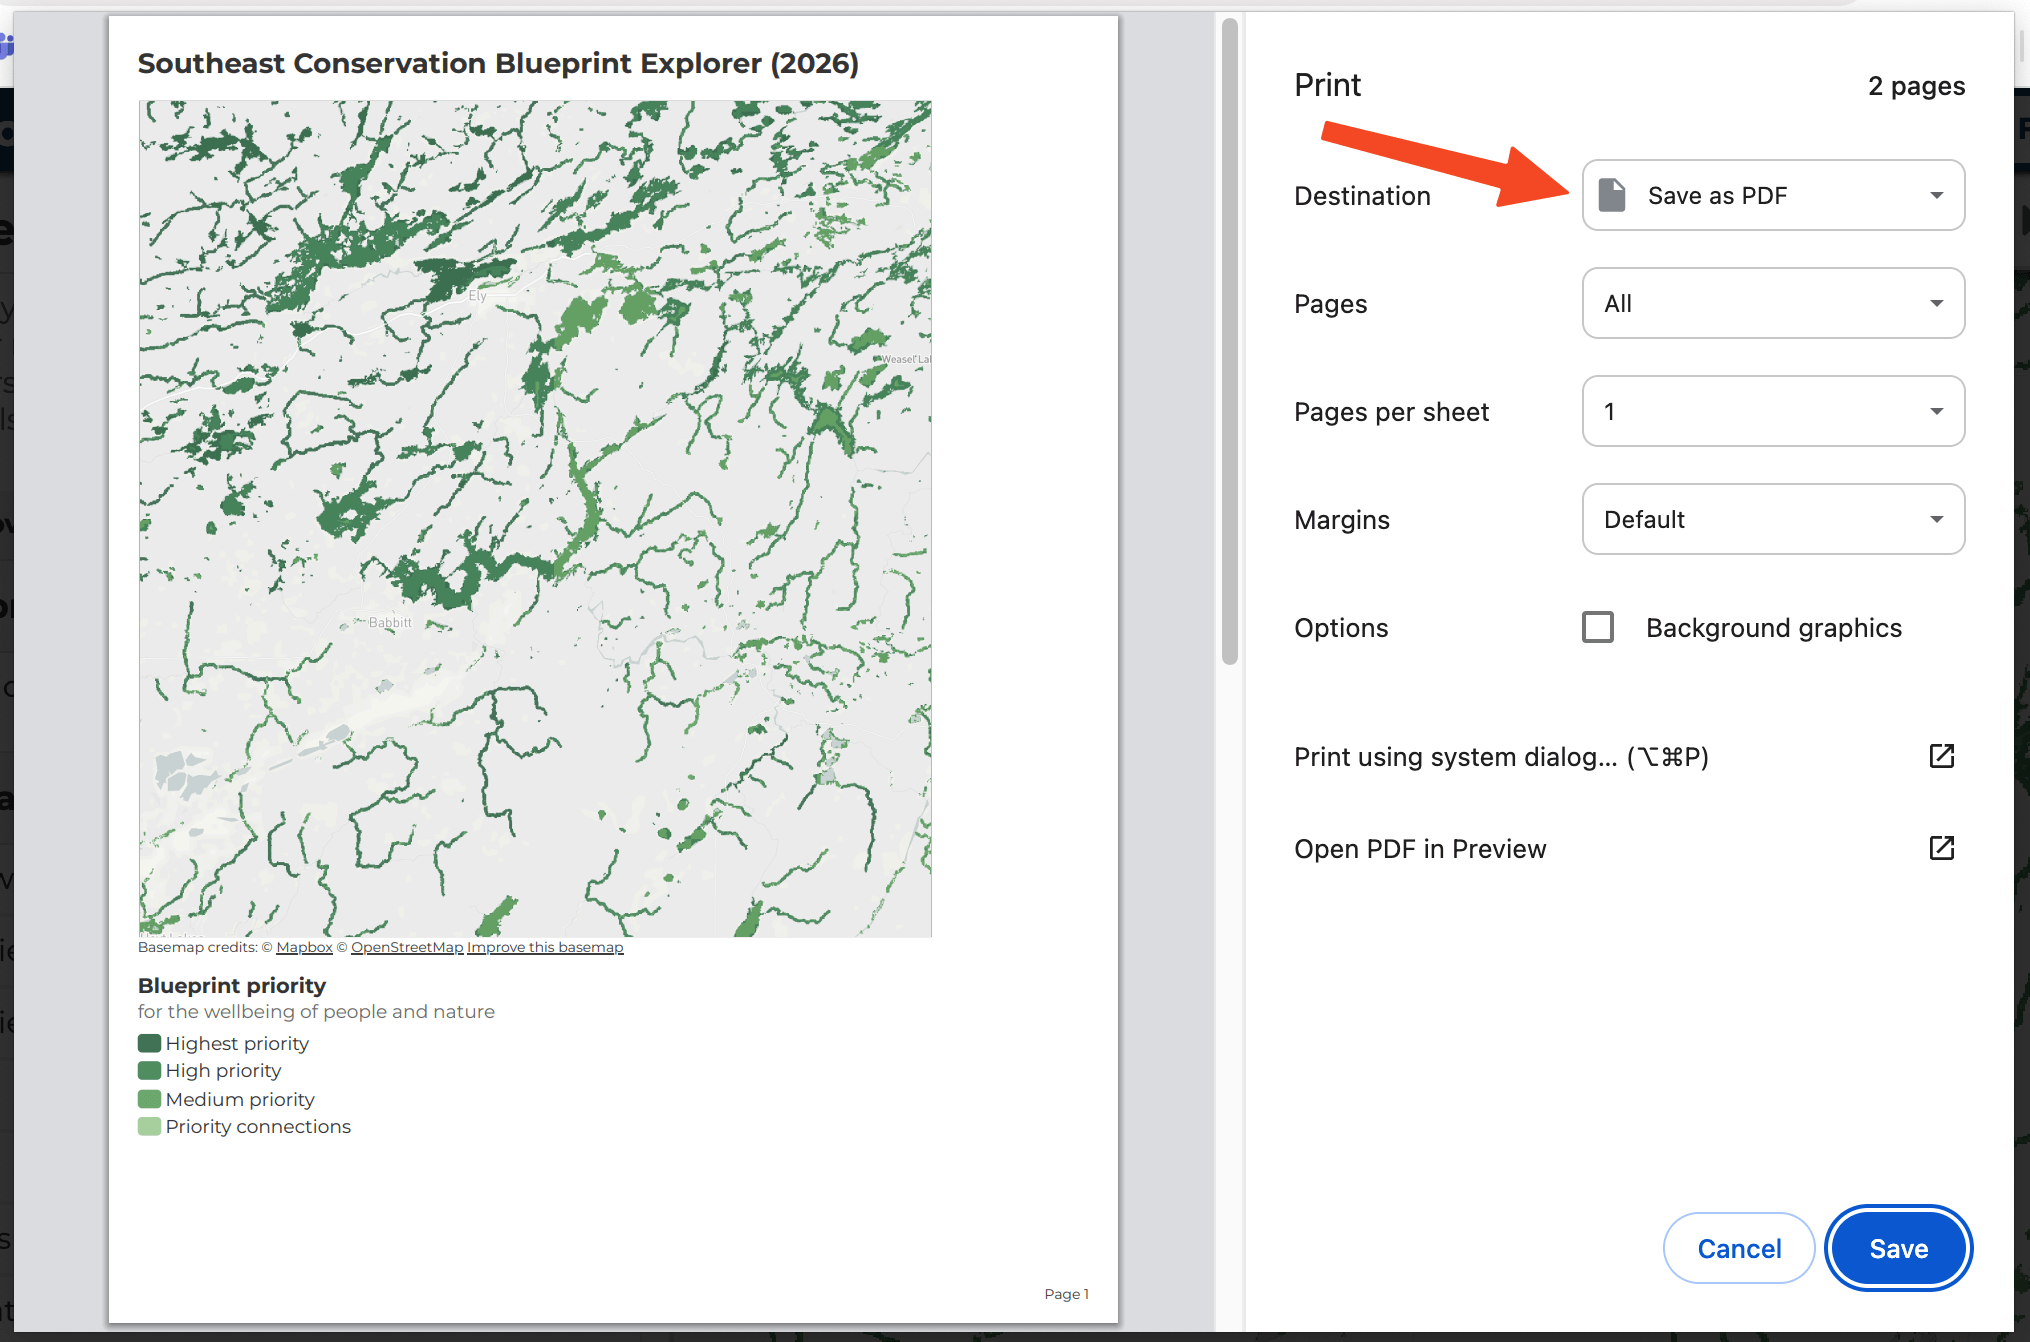
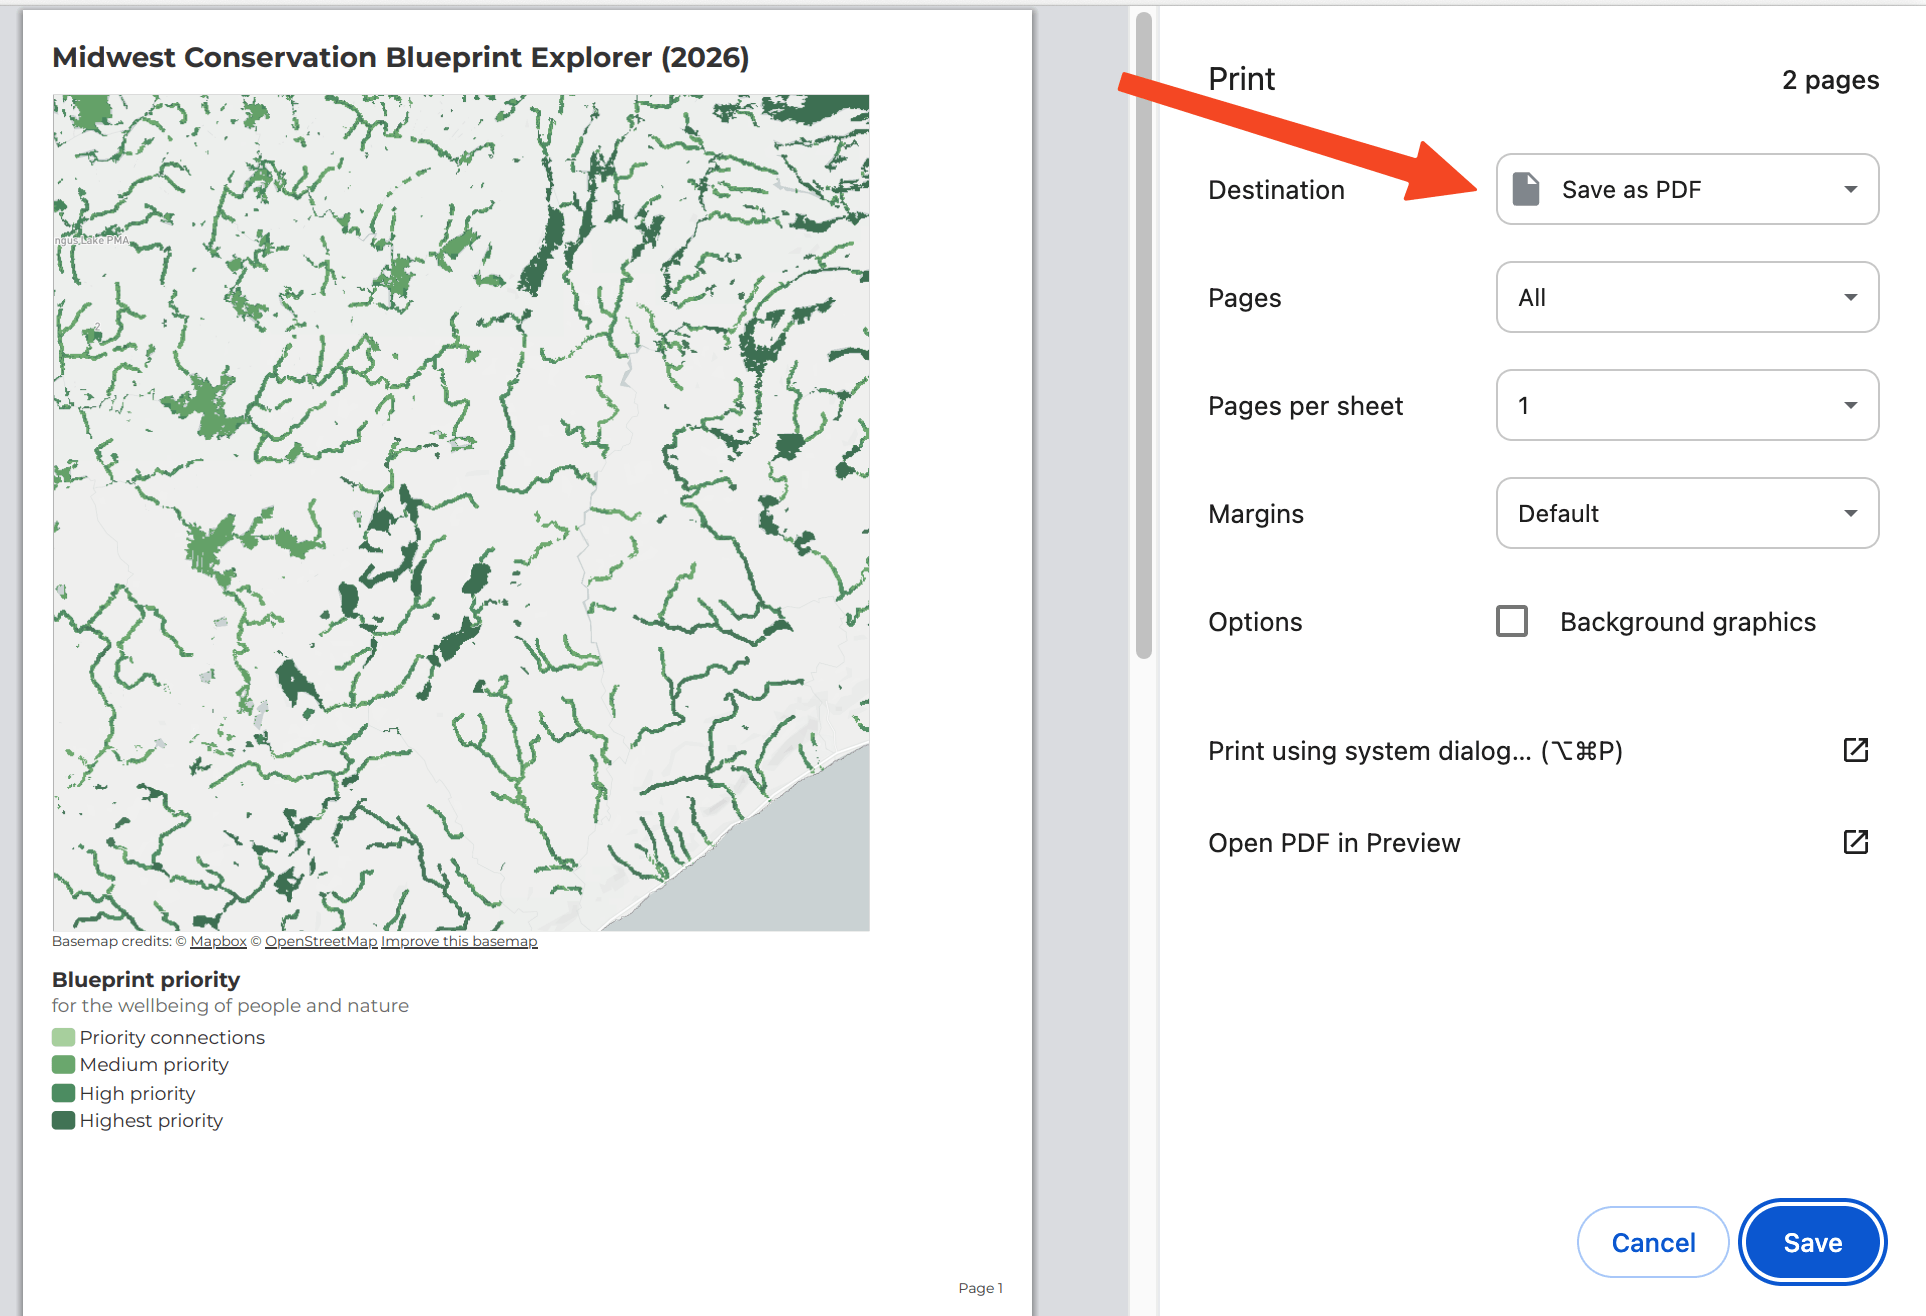
Fixes from Rachael

diff --git a/ui/src/lib/components/report/SummaryReportModal.svelte b/ui/src/lib/components/report/SummaryReportModal.svelte
@@ -1,7 +1,7 @@
 <script lang="ts">
 	import DownloadIcon from '~icons/fa-solid/download'
 	import { createSummaryUnitReport } from '$lib/api'
-	import { API_HOST } from '$lib/env'
+	import { API_HOST, CONTACT_URL } from '$lib/env'
 	import { Root, Trigger, Close, Content, Footer, Header, Title } from '$lib/components/ui/dialog'
 	import { Button } from '$lib/components/ui/button'
 	import { captureException, logGAEvent } from '$lib/util/log'
@@ -147,7 +147,7 @@
 				Note: we have made every possible effort to ensure that the information provided in this
 				viewer is accessible to people with disabilities. If you cannot fully access the
 				information, please reach out to
-				<a href="http://secassoutheast.org/staff" target="_blank"> Blueprint user support staff </a>
+				<a href={CONTACT_URL} target="_blank"> Midwest Landscape Initiative staff</a>
 				so that we can provide the information in an alternate format.
 			</p>
 		{/if}

diff --git a/ui/src/lib/components/report/UploadForm.svelte b/ui/src/lib/components/report/UploadForm.svelte
@@ -246,9 +246,8 @@
 						We're currently testing advanced reporting that complements this simple PDF report, including
 						the ability to choose specific datasets and save results to an XLSX file. This functionality
 						is not yet public. Contact
-						<a href="http://secassoutheast.org/staff" target="_blank">
-							Midwest Landscape Initiative staff</a
-						> to find out more.
+						<a href={CONTACT_URL} target="_blank"> Midwest Landscape Initiative staff</a> to find out
+						more.
 					{:else}
 						Upload a zipped shapefile or ESRI File Geodatabase Feature Class containing your area of
 						interest to generate a detailed Excel spreadsheet report (.xlsx) of the Blueprint,

diff --git a/ui/src/lib/components/tabs/FiltersTab.svelte b/ui/src/lib/components/tabs/FiltersTab.svelte
@@ -111,7 +111,7 @@
 			<div class="flex flex-col overflow-y-auto flex-auto h-full relative">
 				<div class="px-4 py-2 leading-tight text-grey-8">
 					Filters can help you find the part of the blueprint that aligns with your mission,
-					interest, or specific question. Enable the filters below to narrow down the Blueprint to
+					interest, or specific question. Enable the filters below to narrow down the blueprint to
 					the part that falls within a range of values for one or more layers.
 				</div>
 

diff --git a/analysis/lib/xlsx/basic.py b/analysis/lib/xlsx/basic.py
@@ -1,13 +1,6 @@
 import pandas as pd
 
-from analysis.constants import INDICATORS_INDEX
-from analysis.lib.xlsx.style import (
-    CHAR_PER_WIDTH_UNIT,
-    add_caption,
-    add_good_condition_row,
-    set_cell_styles,
-    set_column_widths,
-)
+from analysis.lib.xlsx.style import CHAR_PER_WIDTH_UNIT, add_caption, set_cell_styles, set_column_widths
 
 
 def get_value_columns(values):
@@ -49,14 +42,6 @@ def add_basic_results_sheet(
     values = dataset["values"]
     caption = dataset["caption"] + "."
 
-    # good threshold is only applicable to indicators
-    if dataset["id"] in INDICATORS_INDEX:
-        good_threshold = dataset.get("goodThreshold", None)
-        if good_threshold:
-            caption += "  Good condition thresholds reflect the range of indicator values that occur in healthy, functioning ecosystems."
-        else:
-            caption += "  A good condition threshold is not yet defined for this indicator."
-
     value_label = dataset.get("valueLabel", None)
     if value_label:
         caption += f"  Values show {value_label[0].lower()}{value_label[1:]}."
@@ -95,9 +80,3 @@ def add_basic_results_sheet(
     set_cell_styles(ws, area_columns=range(1, len(tmp.columns) + 3))
 
     add_caption(ws, table_counter, caption)
-
-    if dataset["id"] in INDICATORS_INDEX and good_threshold:
-        # NOTE: this only applies to indicators, which are always in greatest to least order
-        offset = 3 if has_area_outside else 2
-        pos = [v["value"] for v in values[::-1]].index(good_threshold) + 1
-        add_good_condition_row(ws, offset, offset + len(values), break_col=pos)

diff --git a/api/tasks/custom_report_xlsx.py b/api/tasks/custom_report_xlsx.py
@@ -42,7 +42,7 @@ async def get_xlsx_report_inputs(ctx, zip_filename, dataset, layer, uuid):
 
     if len(datasets) == 0:
         raise DataError(
-            "area of interest does not overlap Southeast Blueprint or area of interest did not overlap with the center of at least one 30m pixel in the Southeast Blueprint"
+            "area of interest does not overlap Midwest Blueprint or area of interest did not overlap with the center of at least one 30m pixel in the Midwest Blueprint"
         )
 
     await set_progress(ctx["redis"], ctx["job_id"], 100, "Done checking available datasets")
@@ -128,7 +128,7 @@ async def create_custom_xlsx_report(
 
     results = await get_analysis_unit_results(df, datasets, progress_callback=progress_callback)
     if results is None:
-        raise DataError("Dataset does not overlap Southeast states")
+        raise DataError("Dataset does not overlap Midwest states")
 
     await set_progress(ctx["redis"], ctx["job_id"], 75, "Creating XLSX file")
     xlsx = create_report(results, datasets, name)
@@ -145,7 +145,7 @@ async def create_custom_xlsx_report(
     await set_progress(ctx["redis"], ctx["job_id"], 100, "All done!")
 
     download_filename = (
-        f"Southeast Blueprint Summary Report - {name}.xlsx" if name else "Southeast Blueprint Summary Report.xlsx"
+        f"Midwest Blueprint Summary Report - {name}.xlsx" if name else "Midwest Blueprint Summary Report.xlsx"
     )
 
     return {

diff --git a/analysis/lib/xlsx/metadata.py b/analysis/lib/xlsx/metadata.py
@@ -48,7 +48,6 @@ def add_data_details_sheet(xlsx: pd.ExcelWriter, datasets: set[str], table_count
     metadata.loc[ix, "date"] = BLUEPRINT["date"]
     metadata.loc[ix, "source"] = BLUEPRINT["source"]
     metadata.loc[ix, "citation"] = BLUEPRINT["citation"]
-    metadata.loc[ix, "url"] = BLUEPRINT["url"]
 
     metadata = metadata[["category", "label", "sheet_name", "source", "date", "description", "citation", "url"]].rename(
         columns={
@@ -64,14 +63,16 @@ def add_data_details_sheet(xlsx: pd.ExcelWriter, datasets: set[str], table_count
     )
 
     metadata.to_excel(xlsx, sheet_name="Data descriptions", index=False)
+
     ws = xlsx.sheets["Data descriptions"]
     set_column_widths(ws, [18, 24, 18, 24, 8, 64, 48, 40])
     set_cell_styles(ws)
-    for cell in list(ws.columns)[-1][1:]:
-        cell.hyperlink = cell.value
-        cell.font = Font(color=Color(index=4))
 
     add_caption(ws, table_counter, "Details for datasets included in this analysis.")
+
+    for cell in list(ws.columns)[-1][3:]:
+        cell.hyperlink = str(cell.value)
+        cell.font = Font(color=Color(index=4))
 
 
 def add_metadata_sheet(xlsx: pd.ExcelWriter, table_counter: int, name: str | None = None):

diff --git a/api/tasks/custom_report_pdf.py b/api/tasks/custom_report_pdf.py
@@ -72,7 +72,7 @@ async def create_custom_pdf_report(ctx, zip_filename, dataset, layer, name=""):
 
     if results is None:
         raise DataError(
-            "area of interest does not overlap Southeast Blueprint or area of interest did not overlap with the center of at least one 30m pixel in the Southeast Blueprint"
+            "area of interest does not overlap Midwest Blueprint or area of interest did not overlap with the center of at least one 30m pixel in the Midwest Blueprint"
         )
 
     # compile indicator IDs across all indicator groups
@@ -127,7 +127,7 @@ async def create_custom_pdf_report(ctx, zip_filename, dataset, layer, name=""):
     log.debug(f"Created PDF at: {local_filename}")
 
     download_filename = (
-        f"Southeast Blueprint Summary Report - {name}.pdf" if name else "Southeast Blueprint Summary Report.pdf"
+        f"Midwest Blueprint Summary Report - {name}.pdf" if name else "Midwest Blueprint Summary Report.pdf"
     )
 
     return {

diff --git a/api/tasks/summary_unit_report_pdf.py b/api/tasks/summary_unit_report_pdf.py
@@ -10,8 +10,7 @@ from api.settings import TEMP_DIR
 
 
 async def create_summary_unit_pdf_report(ctx, unit_type, unit_id):
-    """Generate Southeast Blueprint Report for a HUC12
-    or marine hex grid cell
+    """Generate Midwest Blueprint Report for a HUC12
 
     Parameters
     ----------
@@ -78,7 +77,7 @@ async def create_summary_unit_pdf_report(ctx, unit_type, unit_id):
 
     log.debug(f"Created PDF at: {local_filename}")
 
-    download_filename = f"Southeast Blueprint Summary Report - {name}.pdf"
+    download_filename = f"Midwest Blueprint Summary Report - {name}.pdf"
 
     return {
         "local_filename": local_filename,

diff --git a/tests/fixtures/create_test_fixtures.py b/tests/fixtures/create_test_fixtures.py
@@ -80,7 +80,7 @@ for format in ["shp", "gdb"]:
         out_dir / f"{format}_poly_too_many.zip",
     )
 
-    # NOTE: the following are specific to the spatial footprint of the Southeast Blueprint
+    # NOTE: the following are specific to the spatial footprint of the Midwest Blueprint
     # no overlap with Blueprint
     save_to_zip(
         {f"poly_no_overlap.{format}": gp.GeoDataFrame(geometry=[shapely.box(-91, 0, -90, 1)], crs=GEO_CRS)},

diff --git a/analysis/prep/prepare_blueprint.py b/analysis/prep/prepare_blueprint.py
@@ -67,7 +67,7 @@ if not outfilename.exists():
 
         # Fill NODATA values within Blueprint extent with 0 (priority for conservation)
         # per direction from Rachael Carlberg on 3/19/2026
-        # and recode all valid values down by 1 to match Southeast Blueprint
+        # and recode all valid values down by 1 to match Midwest Blueprint
         data = np.where(data == nodata, 0, data - 1)
 
         extent_data = extent.read(1)
